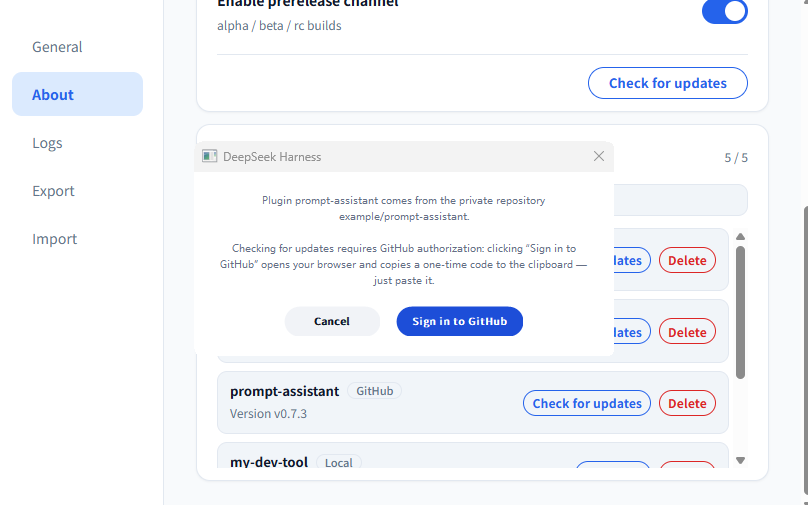
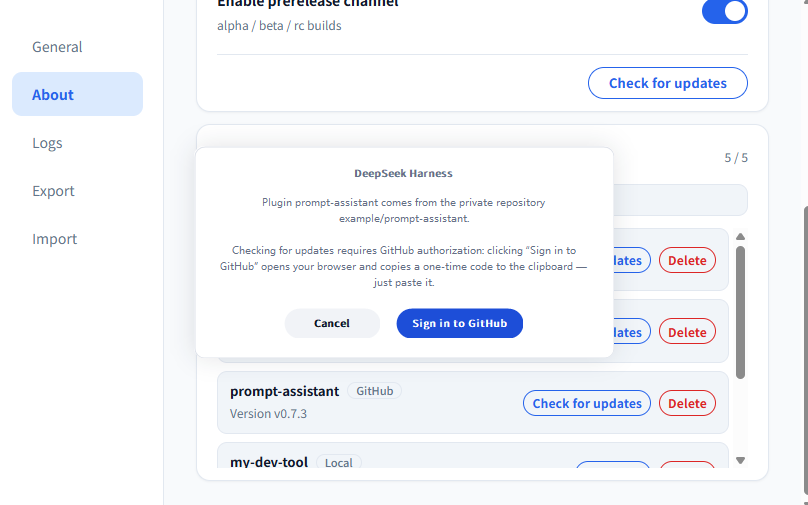
feat(dialog/docs): 原生弹窗无边框卡片化 + 轮播图授权弹窗柔和阴影
需求 2：GitHub 授权等原生弹窗去掉窗口边框，改为圆角卡片 + 四周阴影（参考 README 主图）。

- dialogs_windows.go：弹窗样式由 WS_CAPTION|WS_SYSMENU 改 WS_POPUP（无标题栏/边框），
  WM_PAINT 自绘白色圆角卡片 + 1px 浅描边，原 caption 文案改为卡片内标题行（居中加粗）；
  窗口类加 CS_DROPSHADOW 并 DwmExtendFrameIntoClientArea(1px) 取得系统投影
  （实测真实窗口四周有 255→250 的柔和阴影梯度）。
- scripts/compose_dialog_shot.py（新增）：设置窗口 + 弹窗按圆角卡片合成，四周用
  alpha 遮罩 + 高斯模糊绘制柔和阴影（与 README 主图 make_hero.py 同款做法），
  出图不再依赖"桌面是否可访问"。
- scripts/capture_github_dialog.ps1：抓图统一走 PrintWindow 合成 + Python 贴图，
  整屏抓取降级为兜底；Test-Varied 由 5×5/>3 改 9×9/>5 并新增抓取重试
  （原阈值在"关于页底部"这类浅色页面上实测仅 4 色勉强过线，偶发误判为空白，
  进而在锁屏/无交互会话下整屏兜底也失败）；失败路径补进程清理，避免残留进程
  影响下一次运行。
- 重拍 docs/shots/github-auth.png 与 docs/shots-en/github-auth.png（808×505，
  卡片 420×180 / 420×212，含圆角与四周柔和阴影，脱敏文案不变）。

diff --git a/dialogs_windows.go b/dialogs_windows.go
@@ -31,6 +31,8 @@ const (
 	swShow                     = 5
 	wsCaption                  = 0x00C00000
 	wsSysMenu                  = 0x00080000
+	wsPopup                    = 0x80000000
+	csDropShadow               = 0x00020000
 	wsClipChildren             = 0x02000000
 	wsChild                    = 0x40000000
 	wsVisible                  = 0x10000000
@@ -67,6 +69,8 @@ const (
 	dlgBtnH   = 30
 	dlgBtnW   = 96 // 固定按钮宽度：容纳「登录 GitHub」等较长主操作文案（14px/600 下约 90px）
 	dlgBtnGap = 16
+	dlgTitleH = 20 // 卡片内标题行高度
+	dlgRadius = 10 // 卡片圆角半径（与网站轮播图的合成圆角一致）
 
 	dialogColorMsg   = 0x00857066 // #667085
 	dialogColorTxt   = 0x00281810 // #101828
@@ -120,6 +124,7 @@ var (
 	pGetTextMetrics        = modGdi32.NewProc("GetTextMetricsA")
 	pAddFontResourceExW    = modGdi32.NewProc("AddFontResourceExW")
 	pDwmSetWindowAttribute = modDwmapi.NewProc("DwmSetWindowAttribute")
+	pDwmExtendFrame        = modDwmapi.NewProc("DwmExtendFrameIntoClientArea")
 	// GDI+（抗锯齿绘图）
 	modGdiplus                = syscall.NewLazyDLL("gdiplus.dll")
 	gpStartup                 = modGdiplus.NewProc("GdiplusStartup")
@@ -222,6 +227,9 @@ type rect struct {
 	left, top, right, bottom int32
 }
 
+// margins 供 DwmExtendFrameIntoClientArea 使用（字段顺序与 Win32 MARGINS 一致）。
+type margins struct{ left, right, top, bottom int32 }
+
 type paintStruct struct {
 	hdc         uintptr
 	fErase      int32
@@ -264,6 +272,7 @@ var (
 	dialogGraySelBrush  uintptr
 	dialogMsgFont       uintptr
 	dialogBtnFont       uintptr
+	dialogTitleFont     uintptr
 	dialogBtnWidths     []int32 // 各按钮自适应宽度（createDialogWindow 使用）
 	dialogClassRegister bool
 )
@@ -476,6 +485,20 @@ func dialogWndProc(hwnd, uMsg, wParam, lParam uintptr) uintptr {
 		pSetBkMode.Call(wParam, bkOpaque)
 		h, _, _ := pGetStockObject.Call(whiteBrush)
 		return h
+	case wmPaint:
+		// 无边框卡片：白色圆角卡面 + 1px 浅描边。原标题栏（WS_CAPTION）已去除，
+		// 卡片观感与 README 主图 / 网站轮播图一致（圆角由 DWM 与截图合成共同保证）。
+		var ps paintStruct
+		hdc, _, _ := pBeginPaint.Call(hwnd, uintptr(unsafe.Pointer(&ps)))
+		if hdc != 0 {
+			var rc rect
+			pGetClientRect.Call(hwnd, uintptr(unsafe.Pointer(&rc)))
+			fillRoundedRectAA(hdc, rc, dlgRadius, colorRefToARGB(dialogColorBorder))
+			inner := rect{rc.left + 1, rc.top + 1, rc.right - 1, rc.bottom - 1}
+			fillRoundedRectAA(hdc, inner, dlgRadius-1, colorRefToARGB(colorWhite))
+			pEndPaint.Call(hwnd, uintptr(unsafe.Pointer(&ps)))
+		}
+		return 0
 	case wmDrawItem:
 		if lParam == 0 {
 			break
@@ -540,6 +563,7 @@ func runModernDialog(caption, message string, buttons []string, primary int) int
 	dialogResult = -1
 	dialogMsgFont = makeSystemFont(16, 400)
 	dialogBtnFont = makeFont(14, 600)
+	dialogTitleFont = makeFont(14, 600)
 	// 按钮按文案自适应宽度（下限 dlgBtnW）：固定宽度会把「登录 GitHub」（约 90px）/
 	// 「Sign in to GitHub」（约 135px，英文更宽）截断——中英双语都要完整可见。
 	dialogBtnWidths = make([]int32, len(buttons))
@@ -582,7 +606,7 @@ func createDialogWindow(caption, message string) uintptr {
 	if !dialogClassRegister {
 		wc := wndClassExW{
 			cbSize:        uint32(unsafe.Sizeof(wndClassExW{})),
-			style:         csHRedraw | csVRedraw,
+			style:         csHRedraw | csVRedraw | csDropShadow, // 无边框弹窗的系统投影兜底
 			lpfnWndProc:   cb,
 			hInstance:     moduleHandle(),
 			hCursor:       cur,
@@ -612,13 +636,15 @@ func createDialogWindow(caption, message string) uintptr {
 	}
 	// 高度余量：容纳 descender 与偶发多一行
 	msgH += 6
-	btnY := int32(dlgPad) + int32(msgH) + 12
+	// 卡片内标题行（原标题栏承担的角色）+ 与消息之间的间距
+	titleY := int32(dlgPad)
+	msgY := titleY + dlgTitleH + 8
+	btnY := msgY + int32(msgH) + 12
 	clientH := btnY + int32(dlgBtnH) + int32(dlgPad)
 
-	r := rect{0, 0, clientW, clientH}
-	pAdjustWindowRectEx.Call(uintptr(unsafe.Pointer(&r)), wsCaption|wsSysMenu, 0, 0)
-	winW := r.right - r.left
-	winH := r.bottom - r.top
+	// 无边框窗口：窗口矩形即卡片矩形（不再按标题栏/边框做 AdjustWindowRectEx）
+	winW := clientW
+	winH := clientH
 
 	sw, _, _ := pGetSystemMetrics.Call(smCX)
 	sh, _, _ := pGetSystemMetrics.Call(smCY)
@@ -630,7 +656,7 @@ func createDialogWindow(caption, message string) uintptr {
 		0,
 		uintptr(unsafe.Pointer(cls)),
 		uintptr(unsafe.Pointer(capPtr)),
-		wsCaption|wsSysMenu,
+		wsPopup, // 无标题栏 / 无边框：卡片化自绘（需求 2）
 		uintptr(x), uintptr(y), uintptr(winW), uintptr(winH),
 		0, 0, moduleHandle(), 0,
 	)
@@ -640,16 +666,33 @@ func createDialogWindow(caption, message string) uintptr {
 	dialogHwnd = hwnd
 	corner := uintptr(dwmcRound)
 	pDwmSetWindowAttribute.Call(hwnd, dwmcWindowCornerPreference, uintptr(unsafe.Pointer(&corner)), unsafe.Sizeof(corner))
+	// 四周窗口阴影：给无边框窗口扩展 1px 边框，DWM 据此按圆角形状绘制系统投影
+	//（CS_DROPSHADOW 为兜底；截图合成路径另由 scripts 侧补柔和阴影）。
+	m := margins{1, 1, 1, 1}
+	pDwmExtendFrame.Call(hwnd, uintptr(unsafe.Pointer(&m)))
+
+	// 标题行（原 WS_CAPTION 标题栏的文案，居中加粗）
+	staticCls, _ := syscall.UTF16PtrFromString("STATIC")
+	titPtr, _ := syscall.UTF16PtrFromString(caption)
+	if titHwnd, _, _ := pCreateWindowExW.Call(
+		0,
+		uintptr(unsafe.Pointer(staticCls)),
+		uintptr(unsafe.Pointer(titPtr)),
+		wsChild|wsVisible|ssCenter,
+		uintptr(dlgPad), uintptr(titleY), uintptr(innerW), uintptr(dlgTitleH),
+		hwnd, 199, moduleHandle(), 0,
+	); titHwnd != 0 {
+		pSendMessageW.Call(titHwnd, wmSetFont, dialogTitleFont, 1)
+	}
 
 	// 消息文本
-	staticCls, _ := syscall.UTF16PtrFromString("STATIC")
 	mt, _ := syscall.UTF16PtrFromString(message)
 	msgHwnd, _, _ := pCreateWindowExW.Call(
 		0,
 		uintptr(unsafe.Pointer(staticCls)),
 		uintptr(unsafe.Pointer(mt)),
 		wsChild|wsVisible|ssCenter,
-		uintptr(dlgPad), uintptr(dlgPad), uintptr(innerW), uintptr(msgH),
+		uintptr(dlgPad), uintptr(msgY), uintptr(innerW), uintptr(msgH),
 		hwnd, 200, moduleHandle(), 0,
 	)
 	if msgHwnd != 0 {

diff --git a/scripts/compose_dialog_shot.py b/scripts/compose_dialog_shot.py
@@ -1,0 +1,78 @@
+#!/usr/bin/env python3
+"""合成「设置窗口 + GitHub 授权弹窗」轮播图（docs/shots[-en]/github-auth.png）：
+- 弹窗按圆角卡片贴到设置窗口客户区上（真实弹窗已无边框，这里保证圆角与描边完整）
+- 卡片四周用 alpha 遮罩 + 高斯模糊生成柔和阴影（与 README 主图 scripts/make_hero.py 同款做法）
+
+为什么要这一步：弹窗是独立的 Win32 窗口，PrintWindow 渲染不出 DWM 合成的窗口阴影，
+直接贴图会得到"没有投影的卡片"；且桌面锁定（无交互会话）时无法用整屏抓取拿到真实阴影。
+统一在合成阶段画阴影后，出图与桌面状态无关、中英两张一致。
+
+用法:
+  python scripts/compose_dialog_shot.py app.png dialog.png out.png \
+      --x 186 --y 157 --w 436 --h 190 [--crop 8] [--radius 10] [--blur 12] [--alpha 30] [--ix 0] [--iy 0]
+"""
+import argparse
+
+from PIL import Image, ImageDraw, ImageFilter
+
+
+def rounded_mask(size, radius, ss=4):
+    """4 倍超采样后缩放，得到抗锯齿的圆角遮罩。"""
+    w, h = size
+    m = Image.new("L", (w * ss, h * ss), 0)
+    ImageDraw.Draw(m).rounded_rectangle([0, 0, w * ss - 1, h * ss - 1], radius=radius * ss, fill=255)
+    return m.resize(size, Image.LANCZOS)
+
+
+def window_shadow(card, blur, alpha):
+    """由卡片自身 alpha 生成四周均匀的柔和阴影（同 make_hero.py）：返回阴影图与留白 padding。"""
+    pad = blur * 2
+    w, h = card.width + pad * 2, card.height + pad * 2
+    sh = Image.new("RGBA", (w, h), (15, 23, 42, 0))
+    sh_a = Image.new("L", (w, h), 0)
+    sh_a.paste(card.split()[3], (pad, pad))
+    sh.putalpha(sh_a.point(lambda v: int(v * alpha / 255)))
+    return sh.filter(ImageFilter.GaussianBlur(blur)), pad
+
+
+def main():
+    ap = argparse.ArgumentParser()
+    ap.add_argument("app", help="设置窗口客户区 PNG（未裁剪）")
+    ap.add_argument("dialog", help="弹窗 PNG（整窗）")
+    ap.add_argument("out", help="输出 PNG")
+    ap.add_argument("--x", type=int, required=True, help="弹窗内容左上角在 app 图中的 x")
+    ap.add_argument("--y", type=int, required=True, help="弹窗内容左上角在 app 图中的 y")
+    ap.add_argument("--w", type=int, required=True, help="弹窗内容宽")
+    ap.add_argument("--h", type=int, required=True, help="弹窗内容高")
+    ap.add_argument("--crop", type=int, default=8, help="设置窗口四周裁掉的圆角/边框像素（与其它轮播图一致）")
+    ap.add_argument("--radius", type=int, default=10, help="卡片圆角半径")
+    ap.add_argument("--blur", type=int, default=12, help="阴影模糊半径")
+    ap.add_argument("--alpha", type=int, default=30, help="阴影不透明度（0-255）")
+    ap.add_argument("--ix", type=int, default=0, help="弹窗内容在 dialog 图中的左内缩（PrintWindow 黑边）")
+    ap.add_argument("--iy", type=int, default=0, help="弹窗内容在 dialog 图中的上内缩（PrintWindow 黑边）")
+    a = ap.parse_args()
+
+    base = Image.open(a.app).convert("RGBA")
+    c = a.crop
+    base = base.crop((c, c, base.width - c, base.height - c))
+
+    dlg = Image.open(a.dialog).convert("RGBA")
+    if dlg.width >= a.ix + a.w and dlg.height >= a.iy + a.h:
+        dlg = dlg.crop((a.ix, a.iy, a.ix + a.w, a.iy + a.h))
+    else:
+        dlg = dlg.crop((0, 0, min(a.w, dlg.width), min(a.h, dlg.height)))
+
+    card = dlg.copy()
+    card.putalpha(rounded_mask(card.size, a.radius))
+
+    sh, pad = window_shadow(card, a.blur, a.alpha)
+    x, y = a.x - c, a.y - c
+    canvas = base.copy()
+    canvas.alpha_composite(sh, (x - pad, y - pad))
+    canvas.alpha_composite(card, (x, y))
+    canvas.convert("RGB").save(a.out, "PNG")
+    print(f"saved {a.out} ({canvas.width}x{canvas.height}) card={card.width}x{card.height} at ({x},{y})")
+
+
+if __name__ == "__main__":
+    main()
